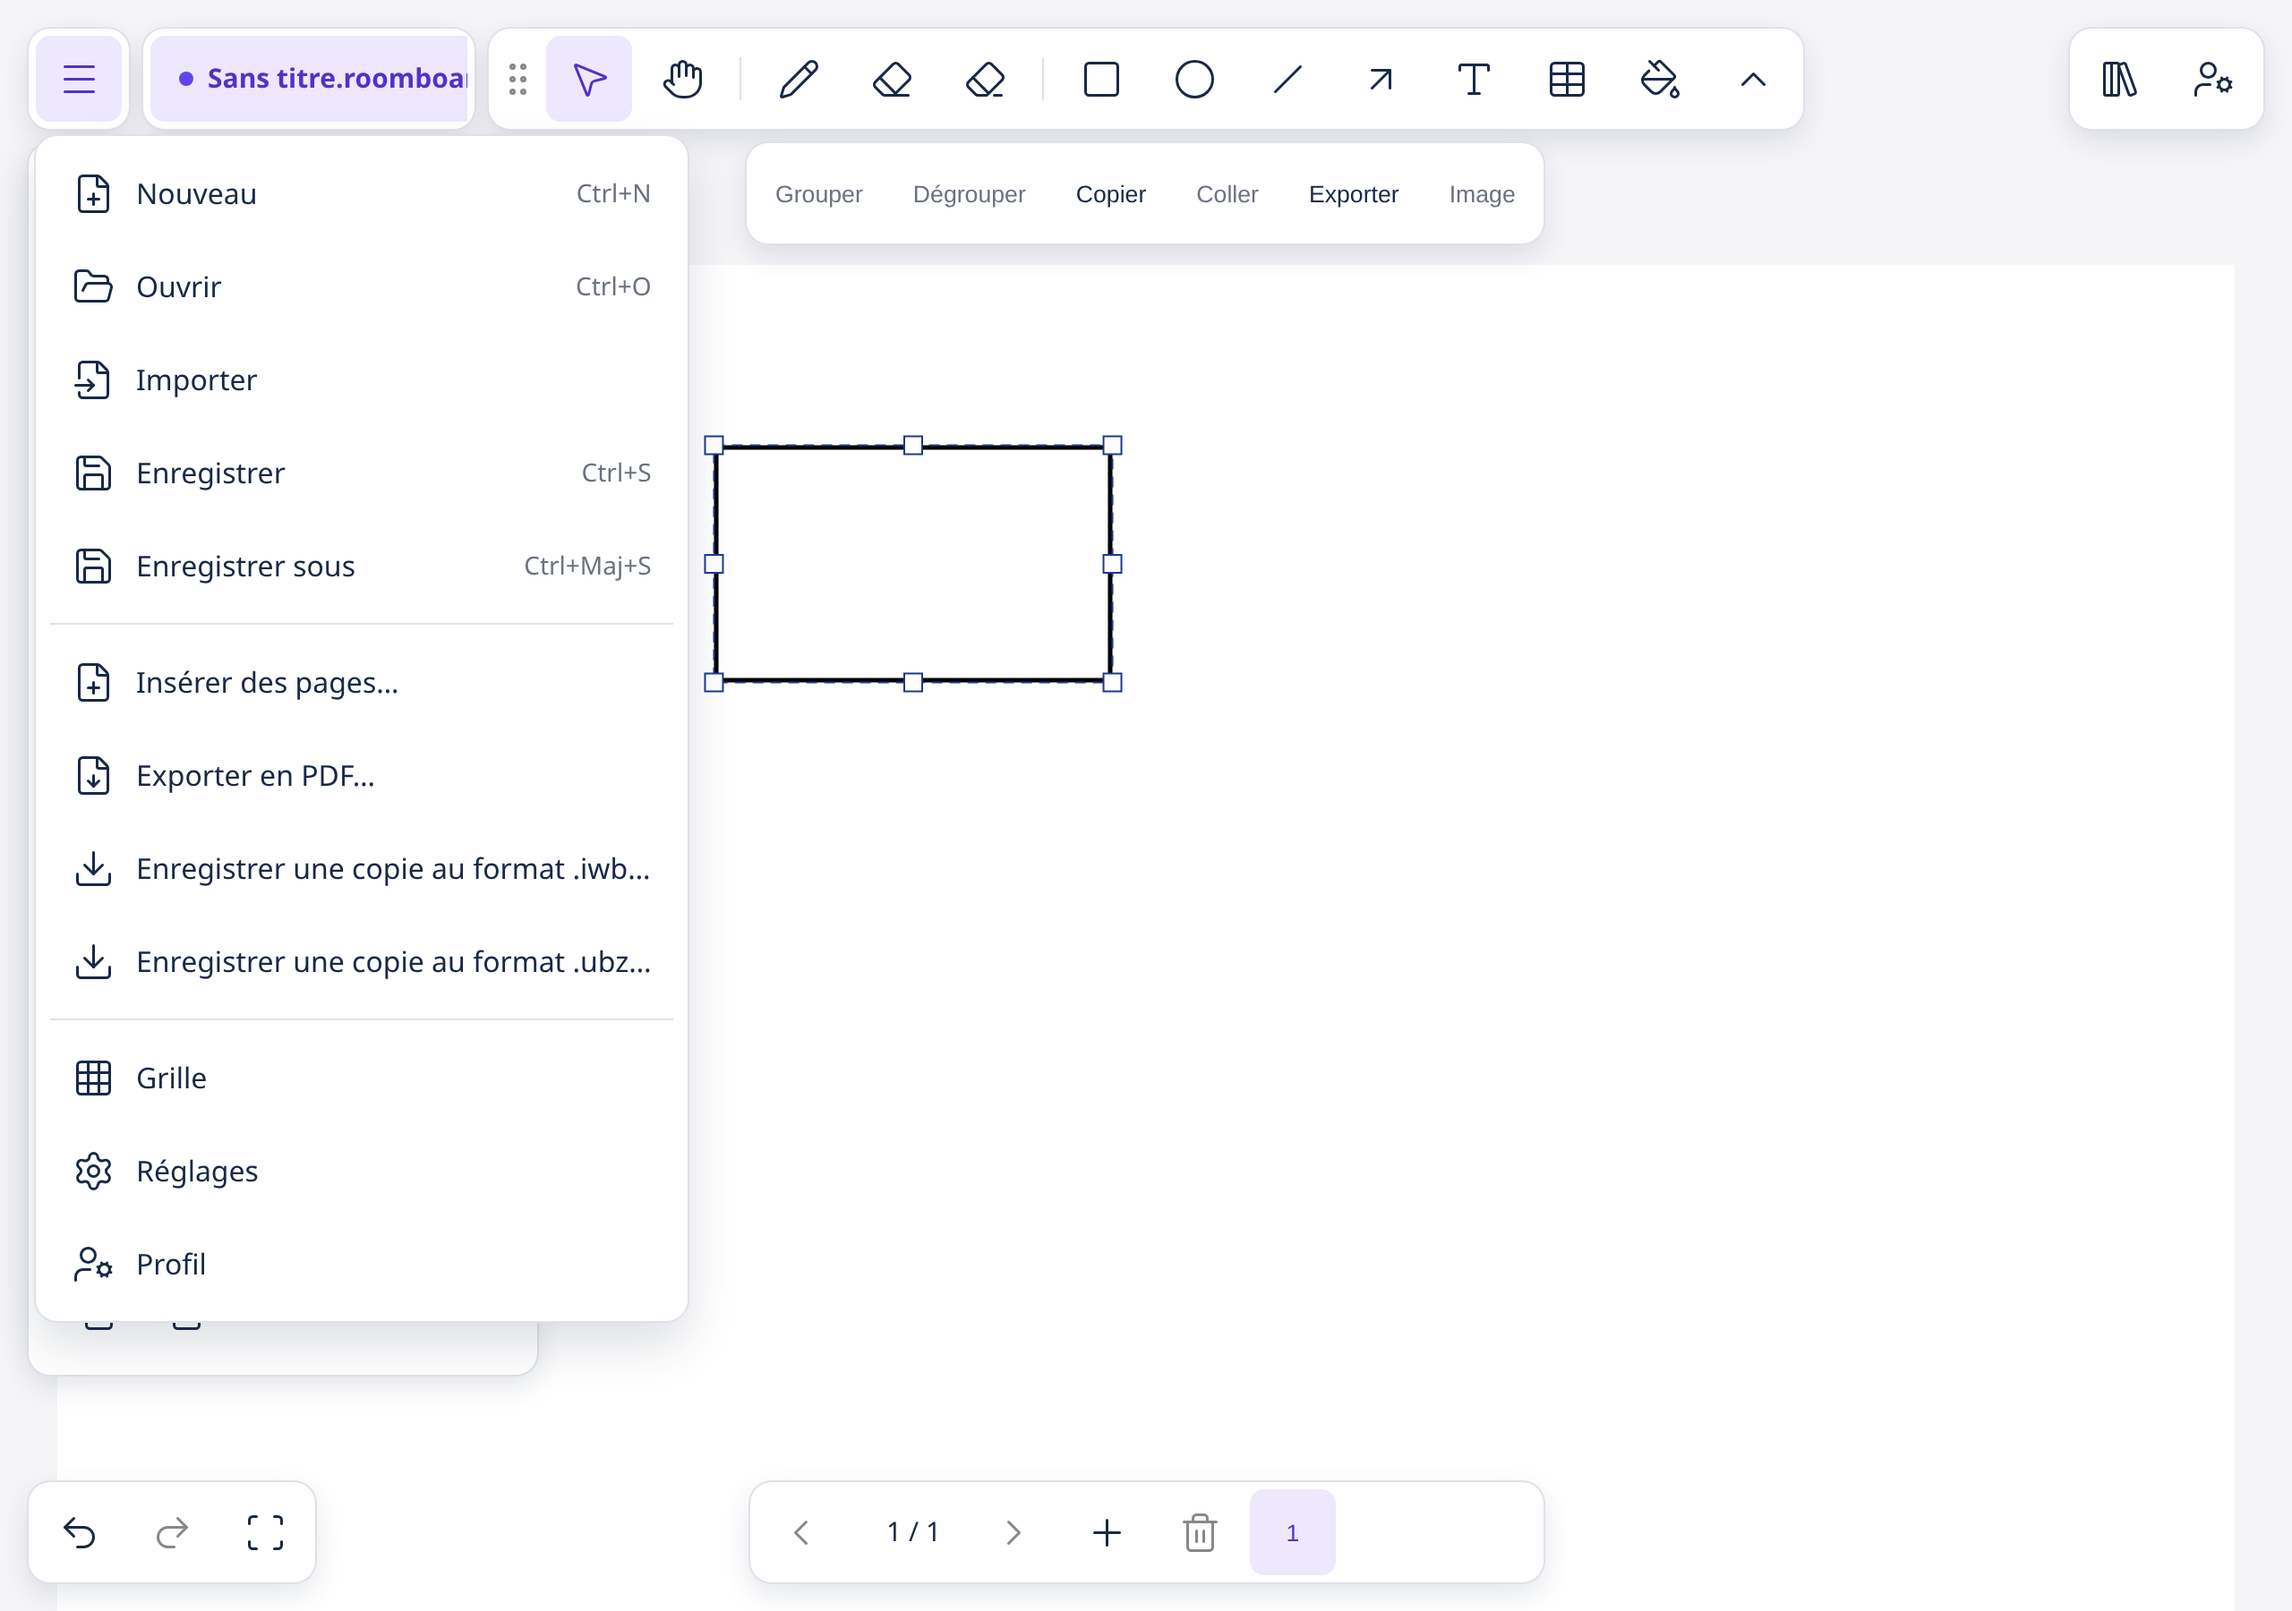
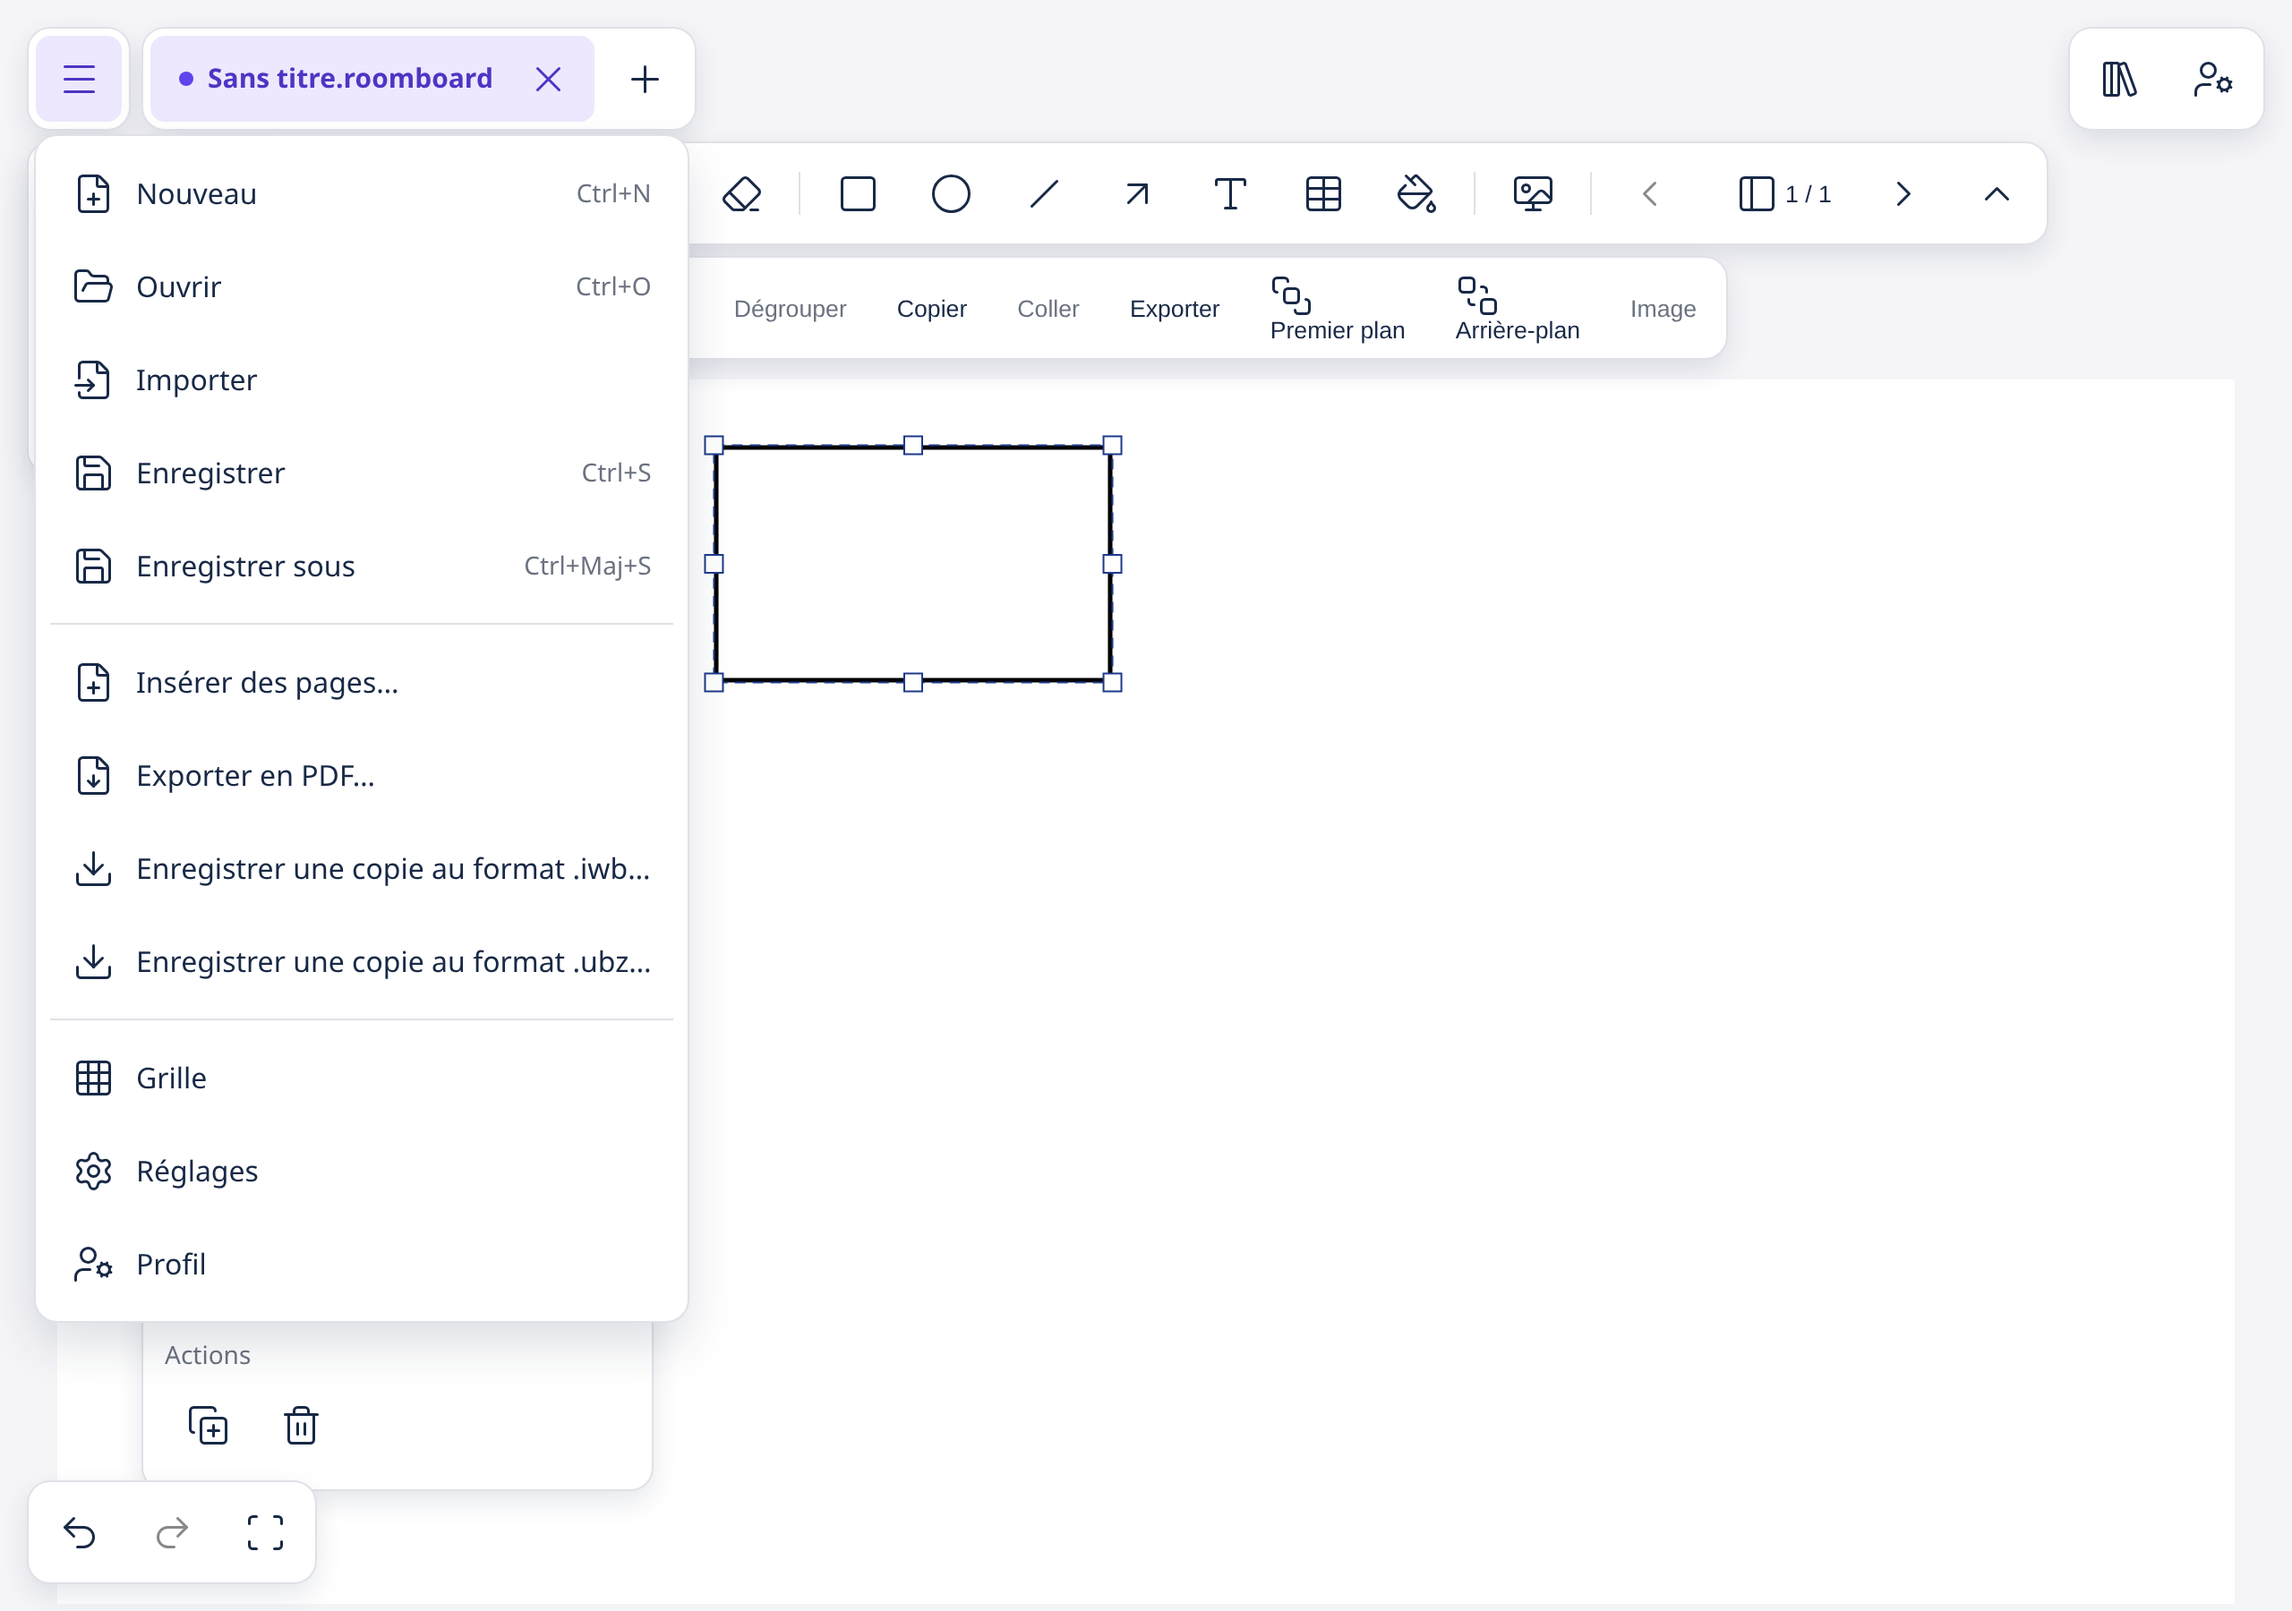
docs: personalisation-2 after captures with OG4 and OG5, lot 2 resume notes

diff --git a/docs/sessions/personnalisation-2-etat.md b/docs/sessions/personnalisation-2-etat.md
@@ -1,12 +1,12 @@
 # État — personnalisation-2
 
-Statut : en cours — lot 1 en fusion, lot 2 sur feat/personnalisation-2b
+Statut : en cours — lot 1 en fusion (OG4 et OG5 intégrés), lot 2 sur feat/personnalisation-2b (poussée, non fusionnée)
 Gabarit : chantier (18 tâches : lot 1 = 10, lot 2 = 8 ; lot 1 fusionnable seul)
 Objectif : RoomBoard reçoit un panneau d'options par outil et un menu général ☰ copiés du comportement d'Excalidraw, remplis de nos commandes, tactile d'abord et clavier ensuite.
 Avancement : lot 1 clos (T1–T11 + correctifs T2b, T4b, T8b, T9b, T20–T27) ; lot 2 : T12–T17 + T28 fusionnés dans feat/personnalisation-2b, T18 (lien) non fait, T19 en cours
 Étage : 4 (lot 1) — depuis 2026-11-27 13:06
 Lot : —
-Tâche : T19 — essai et captures du lot 2 — depuis 13:06
+Tâche : —
 Questions à Jérôme : —
 Worktree : /home/adminjd/projets/roomboard-wt/personnalisation-2   Branche : feat/personnalisation-2   Base : origin/main @ 45484db
 Branche principale locale au lancement : 45484db
@@ -21,6 +21,10 @@ Tailles Wasm à 45484db : principal 1 375 581 o (plafond 1 572 864) · formats 2
 ## Fin du lot 1
 verifier.sh --e2e sur 75cfe6d : e2e OK, OK · cargo 1410 · web 3765 (184 fichiers) · cli 265 (29) · Wasm principal 1 394 336 o, formats 2 794 511 o · personnalisation-2 : OK, CLI : OK
 Double relecture : conformité + qualité UI + qualité TS, aucun bloquant ; majeurs corrigés par T20, T21 ; essais anciens : amorce foldOptions dans s34, c3, c4, c6a, c8, c13 ; T22 (menu sous le panneau, panneau compact, calage, design-l2/l3), T24, T25, T26.
+
+## Lot 2 — reprise
+Branche poussée : feat/personnalisation-2b (c98c9b2), base lot 1 avant l'intégration d'OG4/OG5. Contient T12 (champs fillStyle, pointes, textAlign, link), T13 (Restack minimal), T14 (rendu hachures, pointes, alignement, polices), T15 (panneau : Remplissage, Texte, Pointes, Disposition, raccourcis Ctrl+(Maj+)↑/↓), T16 (sélecteur de couleur, S et G), T17 (Aide « ? », Effacer la page, Ctrl+Maj+E export PDF), T28 (outils de création lisent le style lot 2). Preuves rejouées par tâche ; aucune suite complète, aucune relecture de lot.
+Prochaine tâche exacte : 1) `git merge origin/main` dans feat/personnalisation-2b ; **retirer le `Restack` de T13 (order.rs, BadOrder, pont, faux cœur, CLI) et brancher Disposition (T15) sur le `Restack { ids, to }` d'OG4 et ses raccourcis d'ordre** (OG4 a déjà des raccourcis d'ordre et la rangée Sélection Premier plan/Arrière-plan : garder un seul jeu, celui d'OG4, et l'afficher dans le panneau) ; 2) T18 lien (non commencé) ; 3) T19 essai navigateur S6–S8 + captures ; 4) double relecture du lot ; 5) verifier.sh --e2e ; 6) PR et fusion.
 
 ## Compteurs
 contre-relecture cadrage 1/2 (aucun bloquant, 7 importantes arbitrées) · relecture plan 1/3 (1 bloquant + 7 importants corrigés ; tour 2 sauté faute de temps, lot 1 relu en entier) · vagues sans progrès 0/2 · correctifs de fin 0/2
